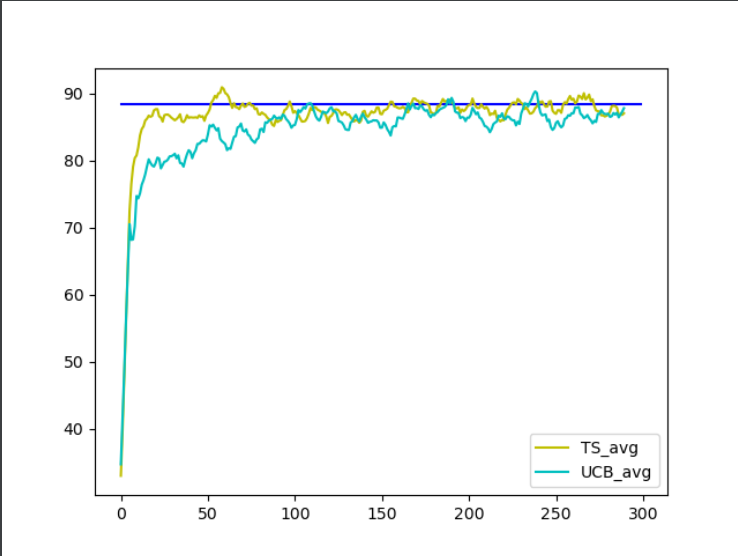
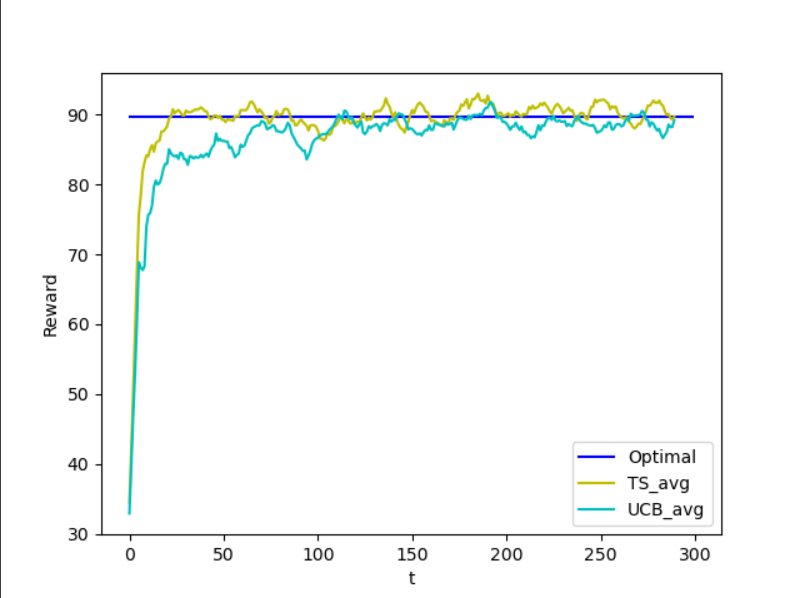
Update plot step 3 and step 4

Changed region(s): [[0.0312, 0.1223, 0.9038, 0.9784]]

diff --git a/main.py b/main.py
@@ -83,14 +83,14 @@ def plot_regret(opt, rewardsTS_exp, rewardsUCB_exp, time_horizon, bound=0, step=
         plt.axvline(x=150)
         plt.axvline(x=300)
     else:
-        labels = ["TS", "UCB"]
+        labels = ["TS", "UCB", "Bound"]
     plt.xlabel("t")
     plt.ylabel("Regret")
     plt.plot(np.cumsum(np.mean(opt - rewardsTS_exp, axis=0)), 'r', label=labels[0])
     if rewardsUCB_exp is not None:
         plt.plot(np.cumsum(np.mean(opt - rewardsUCB_exp, axis=0)), 'g', label=labels[1])
     if bound != 0:
-        plt.plot(time_horizon * [bound], 'b')
+        plt.plot(time_horizon * [bound], 'b', label=labels[2])
 
     x = np.arange(time_horizon)
     y_ts = (np.cumsum(np.mean(opt - rewardsTS_exp, axis=0)))
@@ -119,7 +119,7 @@ def plot_reward(opt, rewardsTS_exp, rewardsUCB_exp, time_horizon, step=0):
     plt.figure(0)
     plt.xlabel("t")
     plt.ylabel("Reward")
-    plt.plot(time_horizon * [opt], 'b')
+    plt.plot(time_horizon * [opt], 'b', label='Optimal')
     if step == 6:
         labels = ["SW UCB", "CD UCB"]
         plt.axvline(x=150)

diff --git a/config.py b/config.py
@@ -105,11 +105,11 @@ sold_items_mean = (sold_items2+sold_items3+sold_items4)/3
 #                        [0.2, 0.3, 0.3, 0.4, 0]]).T
 
 #FEMMINE <35
-graph_probs2 = np.array([[0.0, 0.0, 0.0, 0.3, 0.2],
-                        [0.3, 0.0, 0.4, 0.0, 0.2],
-                        [0.0, 0.0, 0.0, 0.0, 0.0],
-                        [0.0, 0.3, 0.0, 0.0, 0.0],
-                        [0.6, 0.7, 0.8, 0.6, 0.0]]).T    #riga più alta perché prodotto che soddisfa di più la categoria
+graph_probs2 = np.array([[0.0, 0.4, 0.4, 0.4, 0.4],
+                        [0.3, 0.0, 0.3, 0.3, 0.3],
+                        [0.2, 0.2, 0.0, 0.2, 0.2],
+                        [0.3, 0.3, 0.3, 0.0, 0.3],
+                        [0.6, 0.7, 0.8, 0.6, 0.0]]).T   #riga più alta perché prodotto che soddisfa di più la categoria
 
 graph_probs3 = np.array([[0.0, 0.0, 0.0, 0.3, 0.2],
                         [0.3, 0.0, 0.4, 0.0, 0.2],
